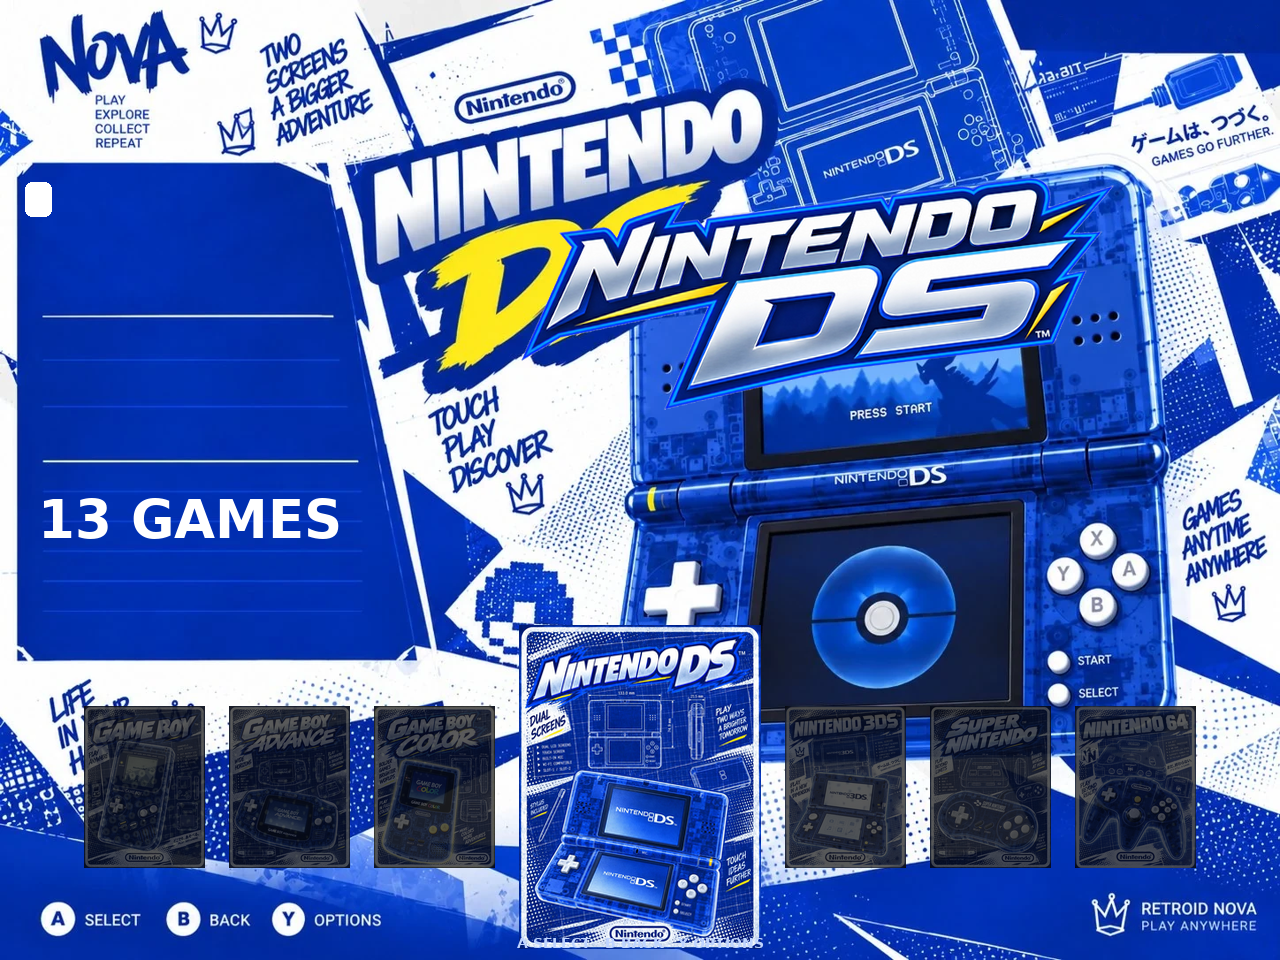
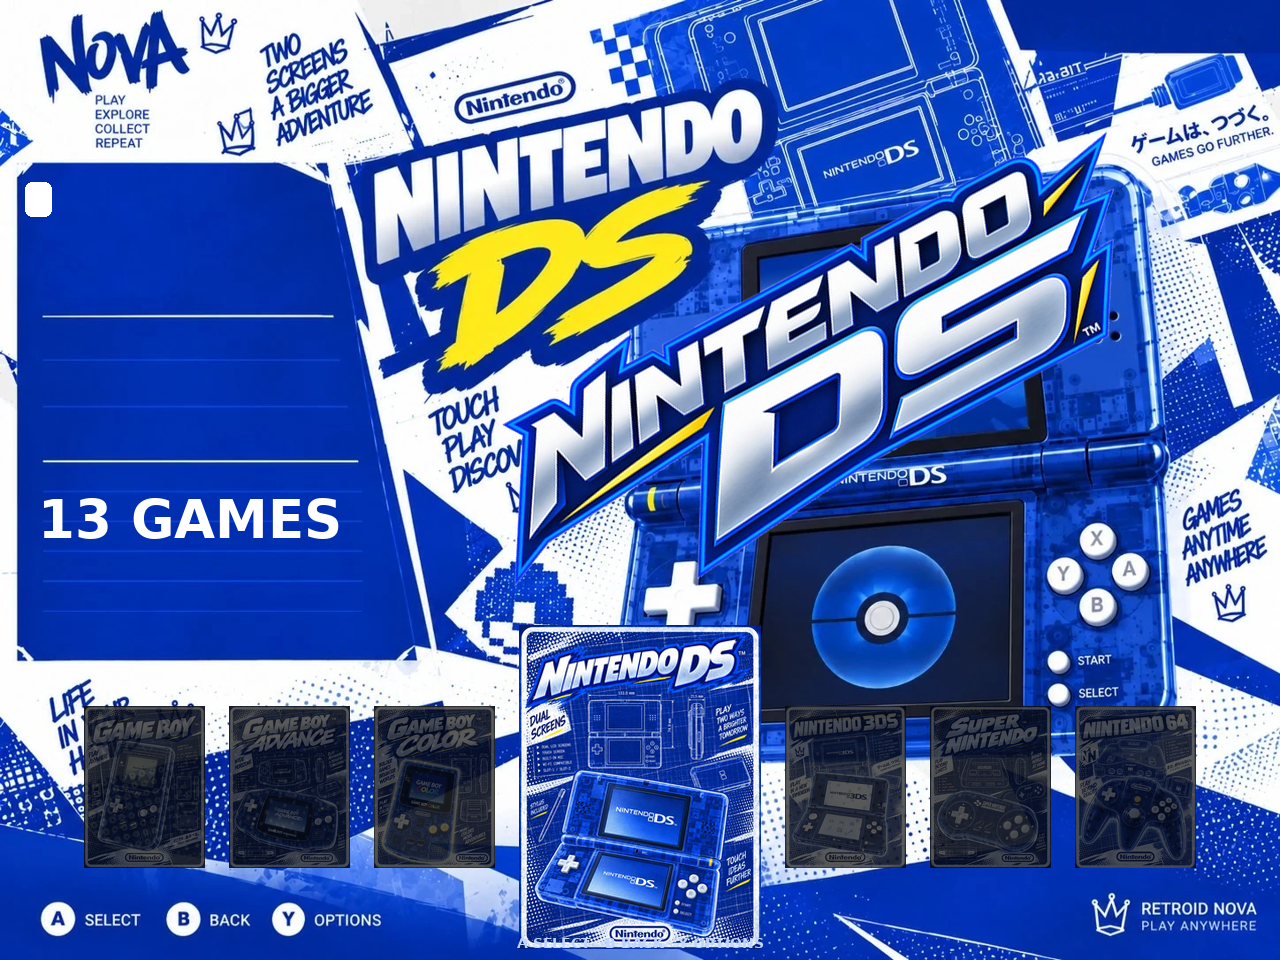
v18.4.3: HERO-sized tilted sysHeroLogo, lower in the stage (code 73)
Per the user's Nova photo (Xbox, dark mode): the tilt direction is
confirmed good on-device; the user wants MORE of everything. sysHeroLogo:
maxSize 0.48 0.24 -> 0.58 0.29 (stage-limited maximum at 28 deg tilt),
rotation -7 -> -28 (same direction, rotationOrigin 0.5 0.5), pos 0.64 0.30
-> 0.64 0.39 (optical middle of the stage above the carousel, lower than
v18.4.2).

Tilted bbox math on the 4:3 frame (w in width-fractions, h in
height-fractions, so h = w*(4/3)/aspect): measured visible-ink spans at
(0.64, 0.39): gbc (2.760:1) x 0.392..0.885 y 0.110..0.633; xbox (3.185:1)
x 0.410..0.888 y 0.112..0.673; psx (5.260:1) x 0.376..0.898 y 0.179..0.630.
Left edge clear of the info panel, right edge inside the screen. Known
trade, accepted per the user's explicit HERO directive: the bottom spike
tip of the taller logos reaches y ~0.63..0.68 and tucks BEHIND the
selected card's top edge (card z45 > logo z30) by ~0.02-0.03 - a thin
blue flourish reading as intentional depth, stable across carousel
positions. A literal 2x width (0.96) cannot fit the stage at 28 deg tilt;
0.58 is the largest maxSize with real margins: 1.21x linear width but
~2.5x the on-screen tilted footprint vs v18.4.2 plus 4x the angle.

Proofs: work/proof_v18_4_sys.py now covers xbox (user's case); PIL
light/dark/side-by-side for xbox/gba/nds/psx/gb/snes/n64/nes - the logo
reads as a HERO in both schemes, light stays clean and premium.

Validator PASS both schemes; all 22 fallbacks byte-identical; double
[…]

Changed region(s): [[0.375, 0.125, 0.875, 0.5938]]

diff --git a/work/proof_v18_4_sys.py b/work/proof_v18_4_sys.py
@@ -25,8 +25,9 @@ W, H = 1280, 960
 FB = "/usr/share/fonts/truetype/dejavu/DejaVuSans-Bold.ttf"
 FR = "/usr/share/fonts/truetype/dejavu/DejaVuSans.ttf"
 
-SYSTEMS = ("gba", "nds", "psx", "gb", "snes", "n64", "nes")
+SYSTEMS = ("xbox", "gba", "nds", "psx", "gb", "snes", "n64", "nes")
 NEIGHBORS = {
+    "xbox": ["nds", "n64", "n3ds", "xbox", "psp", "ps2", "psx"],
     "gba": ["gb", "gbc", "nds", "gba", "snes", "n64", "psx"],
     "nds": ["gb", "gba", "gbc", "nds", "n3ds", "snes", "n64"],
     "psx": ["ps2", "n64", "snes", "psx", "gc", "gba", "wii"],
@@ -35,7 +36,7 @@ NEIGHBORS = {
     "n64": ["snes", "gc", "psx", "n64", "ps2", "gba", "nds"],
     "nes": ["snes", "gb", "gbc", "nes", "psx", "gba", "n64"],
 }
-COUNTS = {"gba": "25 GAMES", "nds": "13 GAMES", "psx": "128 GAMES", "gb": "96 GAMES",
+COUNTS = {"xbox": "4 GAMES", "gba": "25 GAMES", "nds": "13 GAMES", "psx": "128 GAMES", "gb": "96 GAMES",
           "snes": "42 GAMES", "n64": "35 GAMES", "nes": "58 GAMES"}
 
 TEXT_ELEMS = ["mfrBadge", "sysName", "sysName1", "sysName2",
